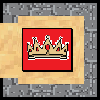
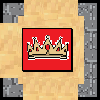
changing the way of the game works now only one castle

Changed region(s): [[0.21, 0.84, 0.78, 1.0], [0.24, 0.0, 0.78, 0.21], [0.39, 0.78, 0.45, 0.81]]

diff --git a/castlemaze/models.py b/castlemaze/models.py
@@ -40,13 +40,10 @@ NOT_CLICKABLE_COORD = (
     (BOARD_WIDTH-1,4),
     (3,0),
     (3,BOARD_HEIGTH-1),
-    (10,0),
-    (10,BOARD_HEIGTH-1),
 )
 
 CASTLE_COORD = (
     (3,4),
-    (10,4),
 )
 
 logger = logging.getLogger(__name__)
@@ -141,6 +138,7 @@ class Game(models.Model):
     team_turn = models.CharField(max_length=100, default='red_team')
     last_cell_played = models.ForeignKey('Cell', related_name='last_cell_player', on_delete=models.CASCADE, null = True)
     activated_traps = models.ManyToManyField(Card, related_name='activated_traps')
+    number_of_round_left = models.IntegerField(default=20)
 
 
     def get_playing_player(self):
@@ -152,6 +150,11 @@ class Game(models.Model):
         if self.team_turn == 'blue_team':
             self.player_turn = (self.player_turn + 1) % 4
             self.team_turn = 'red_team'
+            if self.player_turn % max(self.player_set.filter(team='red_team').count(), self.player_set.filter(team='blue_team').count()) == 0:
+                self.number_of_round_left -= 1
+                if self.number_of_round_left == 0:
+                    self.status = 'R'
+
         else :
             self.team_turn = 'blue_team'
         self.save()
@@ -249,6 +252,7 @@ class Game(models.Model):
             list_status.append({'elem_id': 100, 'elem_text': '', 'left': cell_red_team.get_left_offset(), 'top': cell_red_team.get_top_offset()+150, 'display': '', 'class': 'castlemaze-text'})
             list_status.append({'elem_id': 102, 'elem_text': '', 'left': cell_blue_team.get_left_offset(), 'top': cell_blue_team.get_top_offset()+150, 'display': '', 'class': 'castlemaze-text'})
             list_status.append({'elem_id': 104, 'elem_text': "It's " + self.get_playing_player().user.username + ' turn !', 'left': cell_status.get_left_offset()+80, 'top': cell_status.get_top_offset()+20, 'display': '', 'class': 'castlemaze-text'})
+            list_status.append({'elem_id': 108, 'elem_text': f'Rounds left {self.number_of_round_left} !', 'left': 300, 'top': 5, 'display': '', 'class': 'castlemaze-text'})
             cell_pass = self.cell_set.get(cell_type='pass_button')
             list_status.append({'elem_id': 106, 'elem_text': 'Pass', 'left': cell_pass.get_left_offset(), 'top': cell_pass.get_top_offset()+20, 'display': '', 'class': 'castlemaze-text'})
 
@@ -256,7 +260,8 @@ class Game(models.Model):
             list_status.append({'elem_id': 104, 'elem_text': 'Blue team won !', 'left': cell_status.get_left_offset()+80, 'top': cell_status.get_top_offset()+20, 'display': '', 'class': 'castlemaze-text'})
         if self.status == 'R':
             list_status.append({'elem_id': 104, 'elem_text': 'Red team won !', 'left': cell_status.get_left_offset()+80, 'top': cell_status.get_top_offset()+20, 'display': '', 'class': 'castlemaze-text'})
-        
+            list_status.append({'elem_id': 108, 'elem_text': f'Rounds left {self.number_of_round_left} !', 'left': 300, 'top': 5, 'display': '', 'class': 'castlemaze-text'})
+           
         
         return list_status
 
@@ -498,11 +503,8 @@ class Game(models.Model):
         for i in range(BOARD_WIDTH):
             for j in range(BOARD_HEIGTH):
                 cell = Cell(x=i,y=j, game=self)
-
                 if cell.x == 3 and cell.y == 4:
                     cell.card = dict_castle_cards['castle_left']
-                if cell.x == 10 and cell.y == 4:
-                    cell.card = dict_castle_cards['castle_right']
 
                 cell.save()
         for i in range(NUMBER_OF_CARDS_PER_PLAYER//2):
@@ -614,12 +616,7 @@ class Game(models.Model):
         # we only want to check if it's a border cell
         if cell.x == 0 or cell.x == BOARD_WIDTH - 1 or cell.y == 0 or cell.y == BOARD_HEIGTH - 1:
             self.last_cell_played = cell
-        blue_crown_cell = self.cell_set.get(cell_type='maze', x=10, y=4)
         red_crown_cell = self.cell_set.get(cell_type='maze', x=3, y=4)
-        for red_player in self.player_set.filter(team='red_team'):
-            if red_player.pawn_cell == blue_crown_cell:
-                self.status='R'
-
         for blue_player in self.player_set.filter(team='blue_team'):
             if blue_player.pawn_cell == red_crown_cell:
                 self.status='B'

diff --git a/castlemaze/scripts/make_cards.py b/castlemaze/scripts/make_cards.py
@@ -19,7 +19,7 @@ for _ in range(30):
     card.number_of_moves = 0
     card.save()
 
-for _ in range(5):
+for _ in range(7):
     card = Card()
     card.img = 'shape_1'
     card.card_type = 'tile'
@@ -60,7 +60,7 @@ for _ in range(30):
     card.number_of_moves = 0
     card.save()
 
-for _ in range(5):
+for _ in range(7):
     card = Card()
     card.img = 'shape_1_2'
     card.card_type = 'tile'
@@ -99,7 +99,7 @@ for _ in range(15):
     card.number_of_moves = 0
     card.save()
 
-for _ in range(3):
+for _ in range(4):
     card = Card()
     card.img = 'shape_2'
     card.card_type = 'tile'
@@ -115,7 +115,7 @@ for _ in range(3):
     card.number_of_moves = 0
     card.save()
 
-for _ in range(3):
+for _ in range(4):
     card = Card()
     card.img = 'shape_2'
     card.card_type = 'tile'
@@ -143,7 +143,7 @@ for _ in range(15):
     card.number_of_moves = 0
     card.save()
 
-for _ in range(3):
+for _ in range(4):
     card = Card()
     card.img = 'shape_2_2'
     card.card_type = 'tile'
@@ -159,7 +159,7 @@ for _ in range(3):
     card.number_of_moves = 0
     card.save()
 
-for _ in range(3):
+for _ in range(4):
     card = Card()
     card.img = 'shape_2_2'
     card.card_type = 'tile'
@@ -187,7 +187,7 @@ for _ in range(15):
     card.number_of_moves = 0
     card.save()
 
-for _ in range(2):
+for _ in range(4):
     card = Card()
     card.img = 'shape_2_3'
     card.card_type = 'tile'
@@ -203,7 +203,7 @@ for _ in range(2):
     card.number_of_moves = 0
     card.save()
 
-for _ in range(2):
+for _ in range(4):
     card = Card()
     card.img = 'shape_2_3'
     card.card_type = 'tile'
@@ -231,7 +231,7 @@ for _ in range(15):
     card.number_of_moves = 0
     card.save()
 
-for _ in range(2):
+for _ in range(4):
     card = Card()
     card.img = 'shape_2_4'
     card.card_type = 'tile'
@@ -247,7 +247,7 @@ for _ in range(2):
     card.number_of_moves = 0
     card.save()
 
-for _ in range(2):
+for _ in range(4):
     card = Card()
     card.img = 'shape_2_4'
     card.card_type = 'tile'
@@ -263,7 +263,7 @@ for _ in range(2):
     card.number_of_moves = 0
     card.save()
 
-for _ in range(60):
+for _ in range(50):
     card = Card()
     card.img = 'shape_3'
     card.card_type = 'tile'
@@ -298,7 +298,7 @@ for _ in range(10):
     card.number_of_moves = 0
     card.save()
 
-for _ in range(10):
+for _ in range(15):
     card = Card()
     card.img = 'shape_3'
     card.card_type = 'tile'
@@ -314,7 +314,7 @@ for _ in range(10):
     card.number_of_moves = 0
     card.save()
 
-for _ in range(15):
+for _ in range(13):
     card = Card()
     card.img = 'shape_4'
     card.card_type = 'tile'
@@ -326,7 +326,7 @@ for _ in range(15):
     card.save()
 
 
-for _ in range(15):
+for _ in range(13):
     card = Card()
     card.img = 'shape_4_2'
     card.card_type = 'tile'
@@ -338,7 +338,7 @@ for _ in range(15):
     card.save()
 
 
-for _ in range(15):
+for _ in range(13):
     card = Card()
     card.img = 'shape_4_3'
     card.card_type = 'tile'
@@ -350,7 +350,7 @@ for _ in range(15):
     card.save()
 
 
-for _ in range(15):
+for _ in range(13):
     card = Card()
     card.img = 'shape_4_4'
     card.card_type = 'tile'
@@ -363,7 +363,7 @@ for _ in range(15):
 
 # Action cards
 
-for _ in range(40):
+for _ in range(30):
     card = Card()
     card.img = 'action_1'
     card.card_type = 'action'
@@ -375,7 +375,7 @@ for _ in range(40):
     card.save()
 
 
-for _ in range(40):
+for _ in range(50):
     card = Card()
     card.img = 'action_2'
     card.card_type = 'action'
@@ -403,9 +403,9 @@ for _ in range(30):
 card = Card()
 card.img = 'castle_left'
 card.card_type = 'castle'
-card.open_top = False
+card.open_top = True
 card.open_left = True
-card.open_bottom = False
+card.open_bottom = True
 card.open_right = False
 card.number_of_moves = 0
 card.save()

diff --git a/castlemaze/migrations/0024_game_number_of_round_left.py b/castlemaze/migrations/0024_game_number_of_round_left.py
@@ -1,0 +1,18 @@
+# Generated by Django 3.0.5 on 2020-04-09 16:57
+
+from django.db import migrations, models
+
+
+class Migration(migrations.Migration):
+
+    dependencies = [
+        ('castlemaze', '0023_auto_20200405_1131'),
+    ]
+
+    operations = [
+        migrations.AddField(
+            model_name='game',
+            name='number_of_round_left',
+            field=models.IntegerField(default=20),
+        ),
+    ]

diff --git a/castlemaze/migrations/0031_merge_20200409_1909.py b/castlemaze/migrations/0031_merge_20200409_1909.py
@@ -1,0 +1,14 @@
+# Generated by Django 3.0.5 on 2020-04-09 17:09
+
+from django.db import migrations
+
+
+class Migration(migrations.Migration):
+
+    dependencies = [
+        ('castlemaze', '0030_game_team_turn'),
+        ('castlemaze', '0024_game_number_of_round_left'),
+    ]
+
+    operations = [
+    ]
